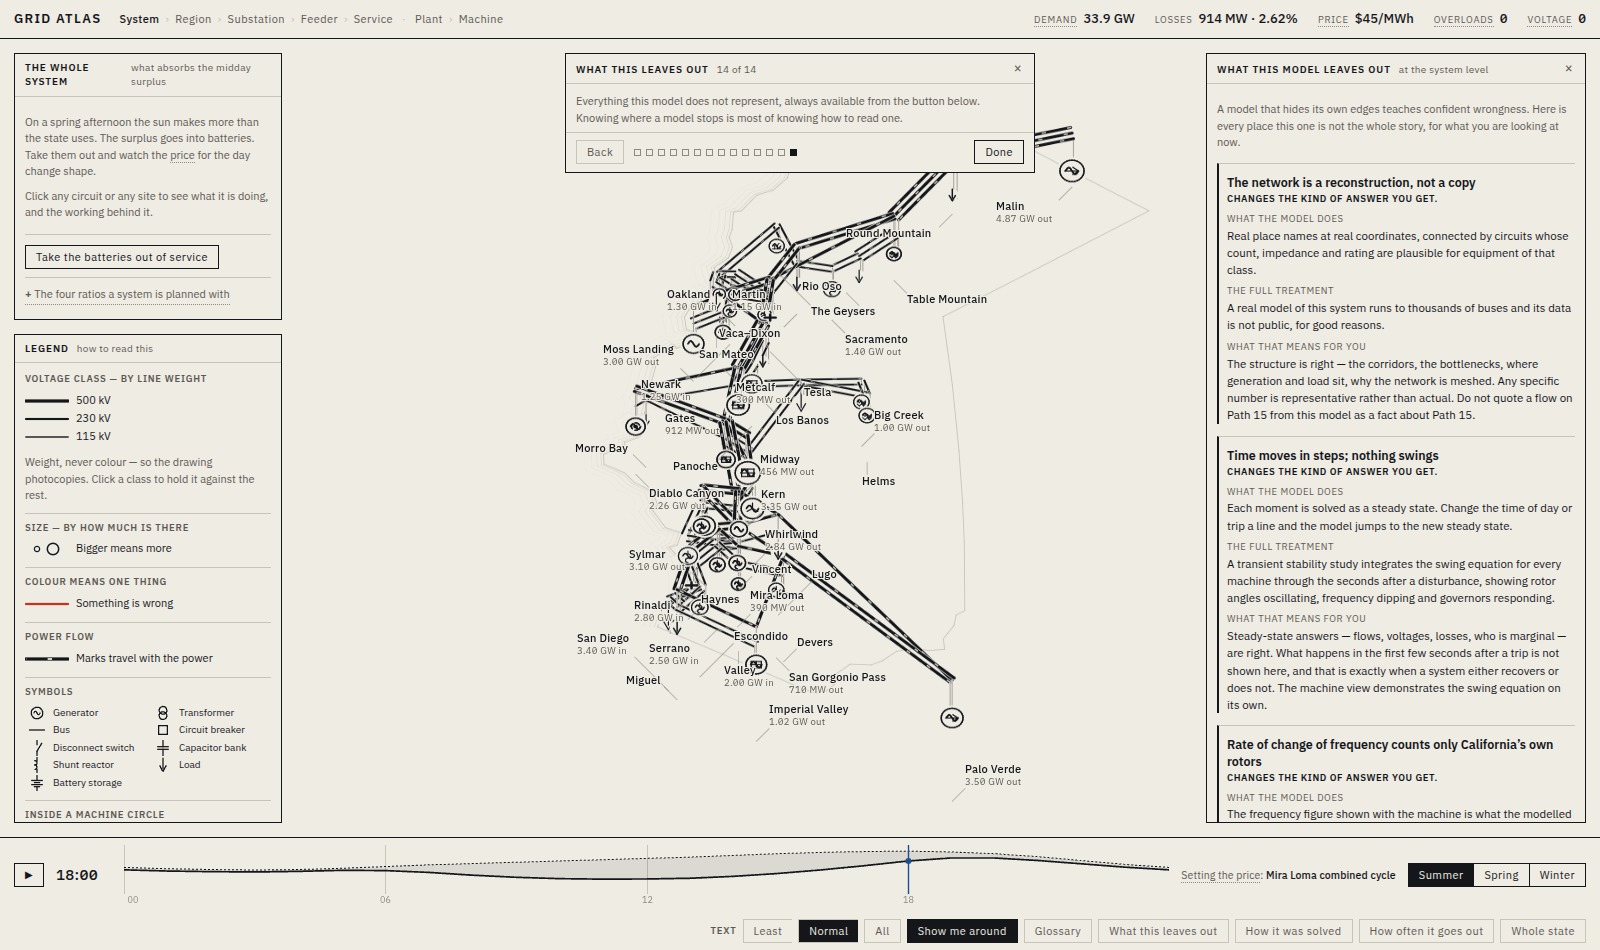
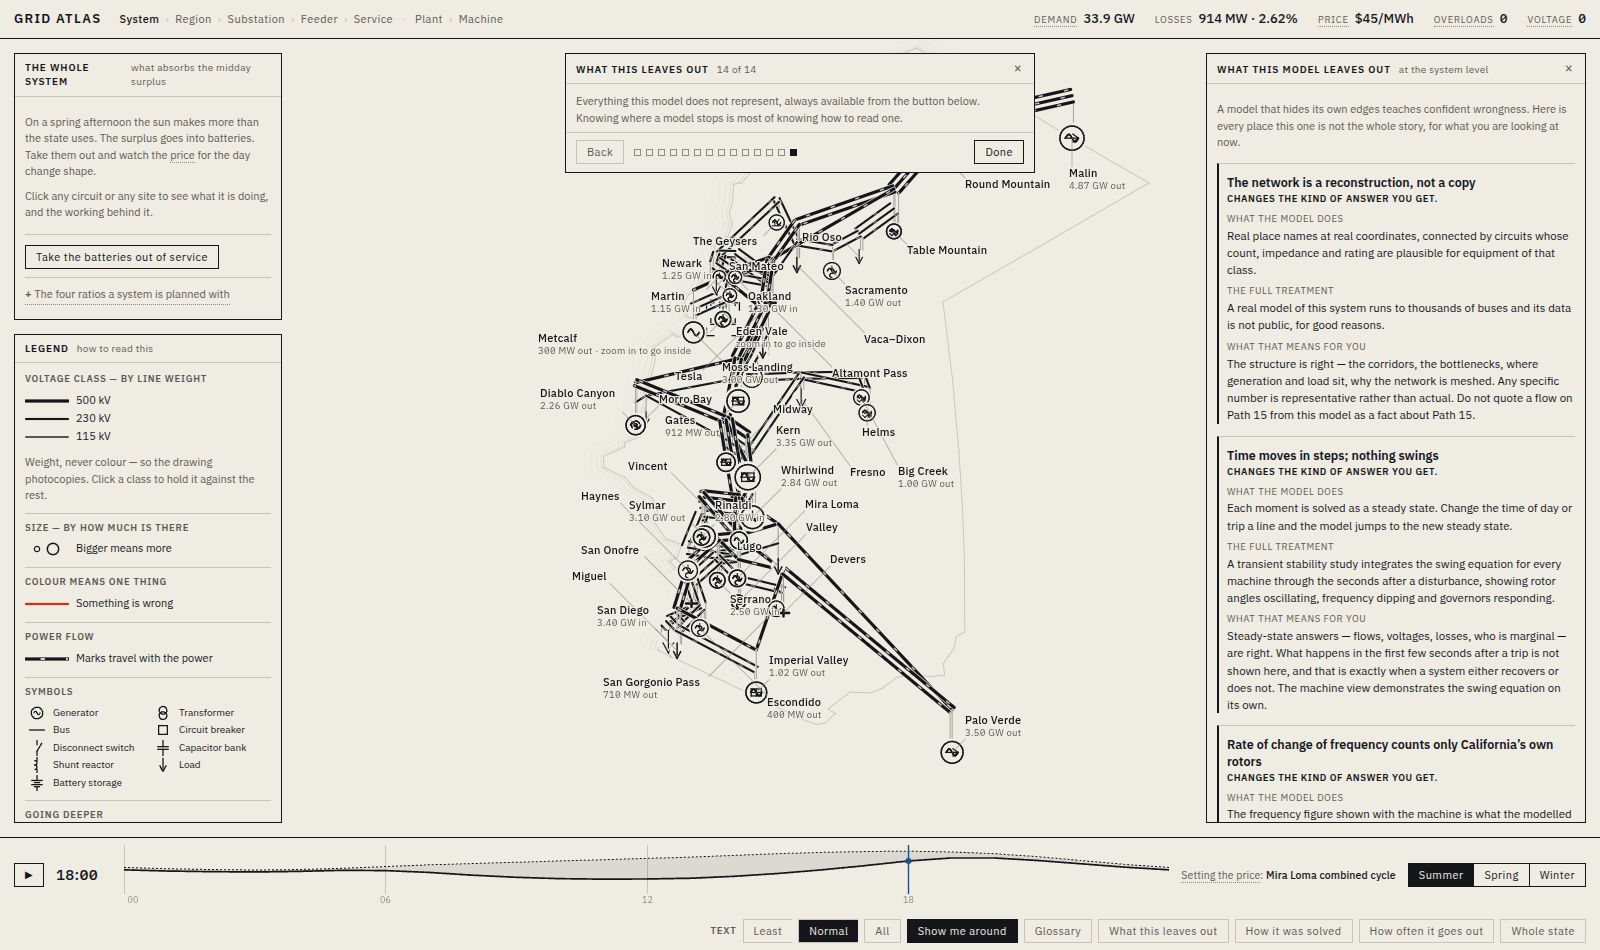
A caption may leave its point on a schematic and not on a map
The ink ceiling from the last commit traded one fault for another. Refusing
to write over the drawing sends a caption looking for clear paper, and off
the coast of California the cleanest paper is the Pacific: San Diego,
Miguel, San Onofre, Imperial Valley, Oakland and San Gorgonio Pass all
jumped into the sea on hairline leaders, reading as names for the ocean.
tools/label-geography.mjs caught it — six off the subject against a
threshold of three.

The distance a caption may be led is now a property of the scene, because
whether there is an edge to fall off is a property of the scene. A
substation single-line is a grid of bus bars with a drop every few pixels
and no clear paper beside any device, so a caption that cannot reach the
margin has nowhere to go but on top of the drawing — and a drawing sheet
has no coast. The state does. The compositor tags the substation, service,
plant and machine as drawings; everything else stays near its point.

What put names in the sea was direction as much as distance: "inward"
covers anything within a right angle of the middle of the ink, and from San
Diego that includes along the coast as well as up it. A map still gets two
rings at arm's length, but only in the directions pointing squarely inland,
which is the move a cartographer makes.

And the passes are ordered so that staying on the subject beats finding
clean paper: inward on clear paper, then inward anywhere, and only then
[…]

Changed region(s): [[0.3438, 0.0916, 0.6875, 0.8242], [0.0312, 0.8547, 0.0938, 0.8853]]

diff --git a/src/render/labels.ts b/src/render/labels.ts
@@ -24,7 +24,28 @@ import { LAYOUT, TYPE, INK, SIGNAL } from './style.js';
 
 export type LabelTone = 'normal' | 'muted' | 'alarm' | 'selected';
 
+/**
+ * How far a caption may walk from the thing it names.
+ *
+ * ON A MAP IT MAY NOT WALK FAR, and the reason is geography. A caption that
+ * leaves its point on a leader is going somewhere emptier, and beyond the coast
+ * the emptiest paper of all is the Pacific: let a name walk five offsets from
+ * San Diego and it lands in the sea, on a hairline, reading as the name of the
+ * sea. Cartographers have never allowed this and neither does `near`.
+ *
+ * ON A SCHEMATIC IT MUST. A substation single-line is a grid of bus bars with
+ * drops every few pixels and there is no clear paper beside any device, so a
+ * caption that cannot reach the margin has nowhere to go but on top of the
+ * drawing. A drawing sheet has no coast to fall off.
+ *
+ * The compositor sets it per scene, because that is the one place that knows
+ * which scenes are maps and which are drawings.
+ */
+export type LabelReach = 'near' | 'far';
+
 export interface LabelSpec {
+  /** How far this caption may be led from its subject. Default 'near'. */
+  reach?: LabelReach;
   id: string;
   /** Where in the world the label points at. */
   world: Vector3;
@@ -169,32 +190,59 @@ export function inkField(
  * Within each group the most inward-facing direction comes first, so ties in
  * ink break towards the middle of the drawing rather than away from it.
  */
+interface Candidates {
+  /** Rings facing into the drawing, nearest first. */
+  inward: Placement[][];
+  /** Every inward position at once, for choosing the least bad one. */
+  inwardAll: Placement[];
+  /** Beside the subject, facing away from the drawing. */
+  outward: Placement[][];
+}
+
 function inwardFirst(
-  tries: readonly Placement[], at: Vector2, ink: InkField
-): Placement[][] {
+  tries: readonly Placement[], at: Vector2, ink: InkField, reach: LabelReach
+): Candidates {
   const dx = ink.centreX - at.x;
   const dy = ink.centreY - at.y;
   const len = Math.hypot(dx, dy);
-  if (len < 1) return [[...tries]];
+  if (len < 1) {
+    return { inward: [[...tries]], inwardAll: [...tries], outward: [] };
+  }
   const ux = dx / len;
   const uy = dy / len;
   const facing = (p: Placement): number =>
     (p[0] * ux + p[1] * uy) / Math.hypot(p[0], p[1]);
   const byFacing = (a: Placement, b: Placement): number => facing(b) - facing(a);
   const inward = tries.filter((p) => facing(p) > 0.05).sort(byFacing);
+  /** Only the directions pointing squarely into the drawing. */
+  const squarelyInward = tries.filter((p) => facing(p) > 0.55).sort(byFacing);
   const outward = tries.filter((p) => facing(p) <= 0.05).sort(byFacing);
   const ring = (d: number): Placement[] =>
     inward.map(([x, y]) => [x, y, d] as Placement);
-  // FOUR GROUPS, and the extra two are both INWARD.
+  // FOUR INWARD RINGS.
   //
   // On a schematic there is no clear paper beside a device — a single-line
   // diagram is a grid of bus bars with drops every few pixels — so a caption
   // has to be able to walk out to the margin and take a leader with it, which
   // is what a draughtsman does and what the near ring alone could never offer.
-  // The rings that walk out all face INTO the drawing; the outward group stays
-  // at arm's length only, because a name that goes outward and far is a name
-  // over open sea, where it reads as the name of the sea.
-  return [inward, ring(2.2), ring(3.6), ring(5.2), outward];
+  // They all face INTO the drawing; the outward group stays at arm's length
+  // only, because a name that goes outward and far is a name over open sea,
+  // where it reads as the name of the sea.
+  // A MAP GETS ONE RING AT ARM'S LENGTH, AND ONLY STRAIGHT INLAND.
+  //
+  // Distance alone is not what put names in the sea; direction is. "Inward"
+  // covers anything within a right angle of the middle of the ink, and from
+  // San Diego that includes along the coast as well as up it — so a caption
+  // let out to three offsets could follow the shoreline out over the water.
+  // The far ring a map is allowed keeps to the directions pointing squarely
+  // inland, which is the move a cartographer makes and is worth seven names
+  // that would otherwise be dropped for want of anywhere to sit.
+  const rings = reach === 'far'
+    ? [inward, ring(2.2), ring(3.6), ring(5.2)]
+    : [inward, ring(2.2),
+      squarelyInward.map(([x, y]) => [x, y, 3.2] as Placement),
+      squarelyInward.map(([x, y]) => [x, y, 4.6] as Placement)];
+  return { inward: rings, inwardAll: rings.flat(), outward: [outward] };
 }
 
 /**
@@ -407,7 +455,9 @@ export class LabelLayer {
       // scene has without knowing anything about geography.
       const tries = spec.side === 'above' ? ABOVE
         : spec.side === 'below' ? BELOW : PLACEMENTS;
-      const groups = ink ? inwardFirst(tries, px, ink) : [[...tries]];
+      const groups: Candidates = ink
+        ? inwardFirst(tries, px, ink, spec.reach ?? 'near')
+        : { inward: [[...tries]], inwardAll: [...tries], outward: [] };
 
       // A NAME WITHOUT ITS NUMBER BEATS NO NAME AT ALL.
       //
@@ -420,56 +470,63 @@ export class LabelLayer {
       // name on its own.
       const attempts: LabelSpec[] =
         spec.value !== undefined ? [spec, withoutValue(spec)] : [spec];
-      // The FIRST free position is not the best one. Candidates are ordered by
-      // where a caption conventionally sits, and that order is the tie-break;
-      // between them, the one written over the least drawing wins.
-      // THE GROUP DECIDES THE SIDE; THE INK DECIDES THE SPOT WITHIN IT.
+
+      // THE ORDER OF THE PASSES IS THE WHOLE OF THE CARTOGRAPHY.
       //
-      // Minimising ink across all candidates at once looks like the same thing
-      // and is not: the emptiest paper within reach of a coastal site is the
-      // sea, so least-ink always won there and the name went out to sea. Each
-      // group is exhausted before the next is considered, and inside a group
-      // the cleanest placement wins.
-      // A CEILING IS A PREFERENCE FOR SOME CAPTIONS AND A RULE FOR THE REST.
+      //   1. inward, on clear paper — the ordinary case, and what the far
+      //      rings exist for: on a crowded schematic a caption walks out to
+      //      the margin rather than lying along a busbar.
+      //   2. inward, anywhere — the LEAST inky position of all of them.
+      //   3. outward, on clear paper — beside the subject, facing away.
       //
-      // Refusing to write over the drawing is right for the fortieth site on a
-      // map. It is wrong for the two places that open into levels of their
-      // own: in the tangle of circuits round the Bay there is no clear paper
-      // within reach of either, so the rule dropped both, and a map that will
-      // not name its own entrances is worse than one with a name lying over a
-      // conductor. Important captions get a second pass with the ceiling
-      // lifted, and only after every clean position has been tried and failed.
-      const ceilings = raw.priority >= 900
-        ? [MAX_INK_UNDER, Infinity] : [MAX_INK_UNDER];
-      for (const ceiling of ceilings) {
-      for (const attempt of attempts) {
-        size = this.measure(attempt);
-        for (const group of groups) {
-          let bestInk = Infinity;
-          for (const [sx, sy, scale] of group) {
-            const base = attempt.offsetPx ?? [LAYOUT.labelOffsetPx, LAYOUT.labelOffsetPx];
-            const off = [base[0] * scale, base[1] * scale];
-            const x = px.x
-              + (sx >= 0 ? off[0] : -off[0] - size.w) + (sx === 0 ? -size.w / 2 : 0);
-            const y = px.y + (sy >= 0 ? off[1] : -off[1] - size.h);
-            const rect = { x, y, w: size.w, h: size.h };
-            if (placed.some((p) => overlaps(rect, p, this.collisionPadding))) continue;
-            if (blocked.some((b) => overlaps(rect, b, 2))) continue;
-            const over = ink ? inkUnder(ink, rect) : 0;
-            if (over > ceiling) continue;
-            if (over < bestInk) {
-              bestInk = over;
-              put = {
-                spec: attempt, x, y, w: size.w, h: size.h,
-                anchorX: px.x, anchorY: px.y,
-              };
+      // Two before three, and that ordering is not obvious. Clear paper beside
+      // a coastal site is the sea, so a ceiling on ink with outward tried
+      // before this made San Diego, Miguel, San Onofre and Imperial Valley
+      // jump off the coast onto open water, each on a hairline leader, reading
+      // as names for the ocean. A name written over a conductor is a nuisance;
+      // a name in the sea is wrong. Staying on the subject wins.
+      const passes: { groups: Placement[][]; ceiling: number }[] = [
+        { groups: groups.inward, ceiling: MAX_INK_UNDER },
+        { groups: groups.inward, ceiling: Infinity },
+        { groups: groups.outward, ceiling: MAX_INK_UNDER },
+      ];
+
+      for (const pass of passes) {
+        for (const attempt of attempts) {
+          size = this.measure(attempt);
+          for (const group of pass.groups) {
+            // The FIRST free position is not the best one. Candidates are
+            // ordered by where a caption conventionally sits, and that order is
+            // the tie-break; between them, the one written over the least
+            // drawing wins. THE GROUP DECIDES THE SIDE; THE INK DECIDES THE
+            // SPOT WITHIN IT — minimising ink across all candidates at once
+            // looks like the same thing and is not.
+            let bestInk = Infinity;
+            for (const [sx, sy, scale] of group) {
+              const base = attempt.offsetPx
+                ?? [LAYOUT.labelOffsetPx, LAYOUT.labelOffsetPx];
+              const off = [base[0] * scale, base[1] * scale];
+              const x = px.x
+                + (sx >= 0 ? off[0] : -off[0] - size.w) + (sx === 0 ? -size.w / 2 : 0);
+              const y = px.y + (sy >= 0 ? off[1] : -off[1] - size.h);
+              const rect = { x, y, w: size.w, h: size.h };
+              if (placed.some((p) => overlaps(rect, p, this.collisionPadding))) continue;
+              if (blocked.some((b) => overlaps(rect, b, 2))) continue;
+              const over = ink ? inkUnder(ink, rect) : 0;
+              if (over > pass.ceiling) continue;
+              if (over < bestInk) {
+                bestInk = over;
+                put = {
+                  spec: attempt, x, y, w: size.w, h: size.h,
+                  anchorX: px.x, anchorY: px.y,
+                };
+              }
+              if (over === 0) break;
             }
-            if (over === 0) break;
+            if (put) break;
           }
           if (put) break;
         }
-        if (put) break;
-      }
         if (put) break;
       }
       // A value is only spoken for once it has actually been PLACED: a label

diff --git a/src/app/scenes.ts b/src/app/scenes.ts
@@ -38,7 +38,7 @@ import { Vector3 } from 'three';
 import { SolvedCase } from '../core/results.js';
 import { IsoCamera } from '../render/iso.js';
 import { LineSegment } from '../render/line-batch.js';
-import { LabelSpec } from '../render/labels.js';
+import { LabelSpec, LabelReach } from '../render/labels.js';
 import {
   PickTarget, SystemGeometry, drawSystem, SYSTEM_KV_DRAWN,
 } from '../render/scene-system.js';
@@ -322,11 +322,17 @@ export function composeFrame(input: ComposeInput): ComposeResult {
    * a faint caption, it is unreadable grey text sitting on top of the drawing
    * that replaced it.
    */
-  const addLabels = (from: LabelSpec[], alpha: number): void => {
-    if (alpha >= 0.999) { labels.push(...from); return; }
+  const addLabels = (
+    from: LabelSpec[], alpha: number, reach?: LabelReach
+  ): void => {
+    // WHICH SCENES ARE DRAWINGS AND WHICH ARE MAPS is known here and nowhere
+    // else, so this is where a caption is told how far it may be led. A
+    // schematic has no coast to fall off; the state does.
+    const tagged = reach ? from.map((l) => ({ ...l, reach })) : from;
+    if (alpha >= 0.999) { labels.push(...tagged); return; }
     if (alpha < 0.34) return;
     const o = (alpha - 0.34) / 0.66;
-    for (const l of from) labels.push({ ...l, opacity: o * o * (3 - 2 * o) });
+    for (const l of tagged) labels.push({ ...l, opacity: o * o * (3 - 2 * o) });
   };
 
   const include = (
@@ -451,7 +457,7 @@ export function composeFrame(input: ComposeInput): ComposeResult {
       detail,
     });
     segments.push(...r.segments);
-    addLabels(r.labels, aSub);
+    addLabels(r.labels, aSub, 'far');
     picks.push(...r.picks);
     if (r.faultAt) faultAt = r.faultAt;
   }
@@ -465,7 +471,7 @@ export function composeFrame(input: ComposeInput): ComposeResult {
       detail,
     });
     segments.push(...r.segments);
-    addLabels(r.labels, aService);
+    addLabels(r.labels, aService, 'far');
     picks.push(...r.picks);
   }
 
@@ -479,7 +485,7 @@ export function composeFrame(input: ComposeInput): ComposeResult {
       detail,
     });
     segments.push(...r.segments);
-    addLabels(r.labels, aPlant);
+    addLabels(r.labels, aPlant, 'far');
     picks.push(...r.picks);
   }
 
@@ -492,7 +498,7 @@ export function composeFrame(input: ComposeInput): ComposeResult {
       opacity: aMachine,
     });
     segments.push(...r.segments);
-    addLabels(r.labels, aMachine);
+    addLabels(r.labels, aMachine, 'far');
     picks.push(...r.picks);
     machine = r.generator;
   }
